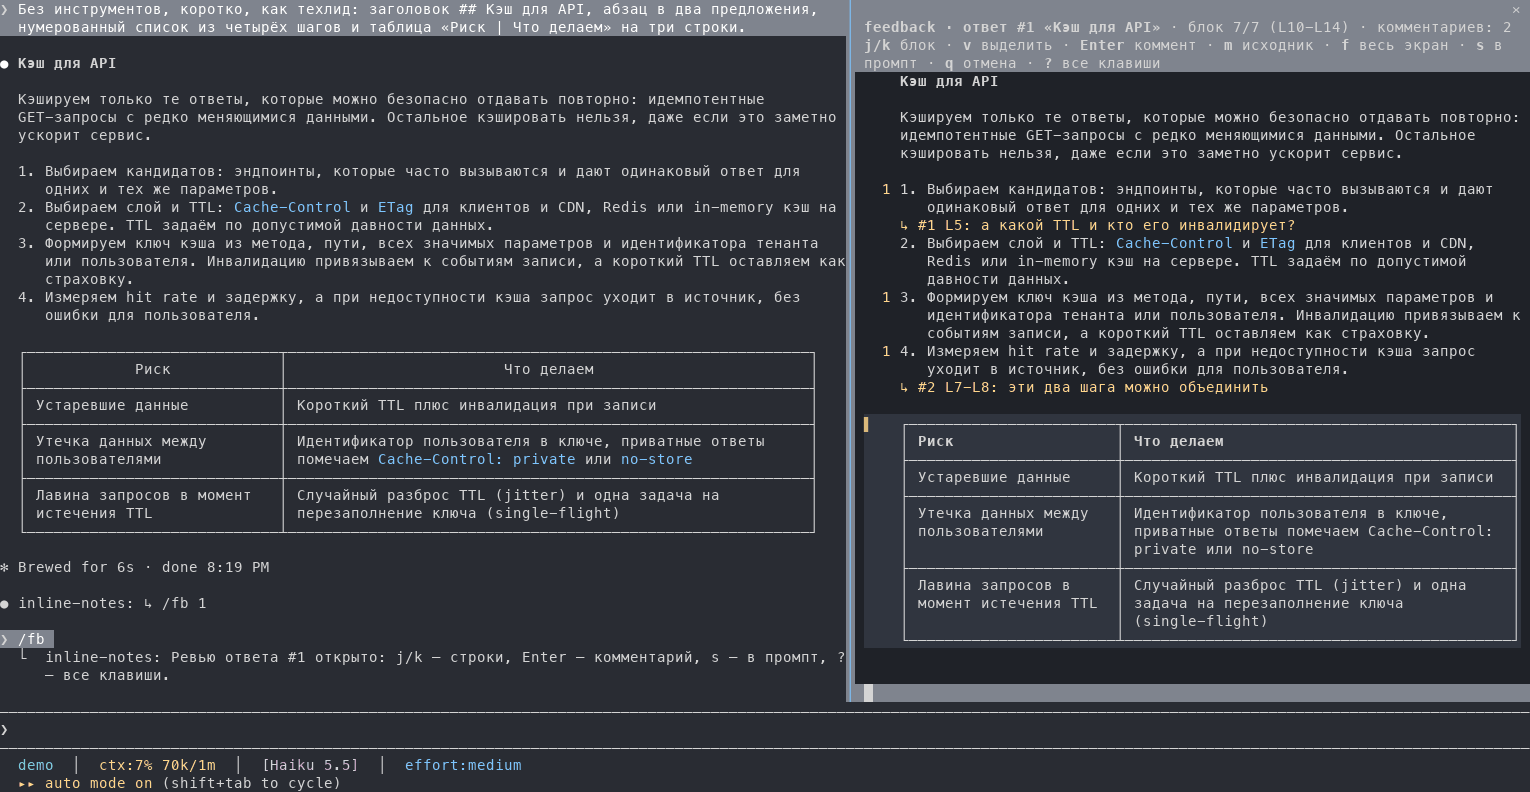
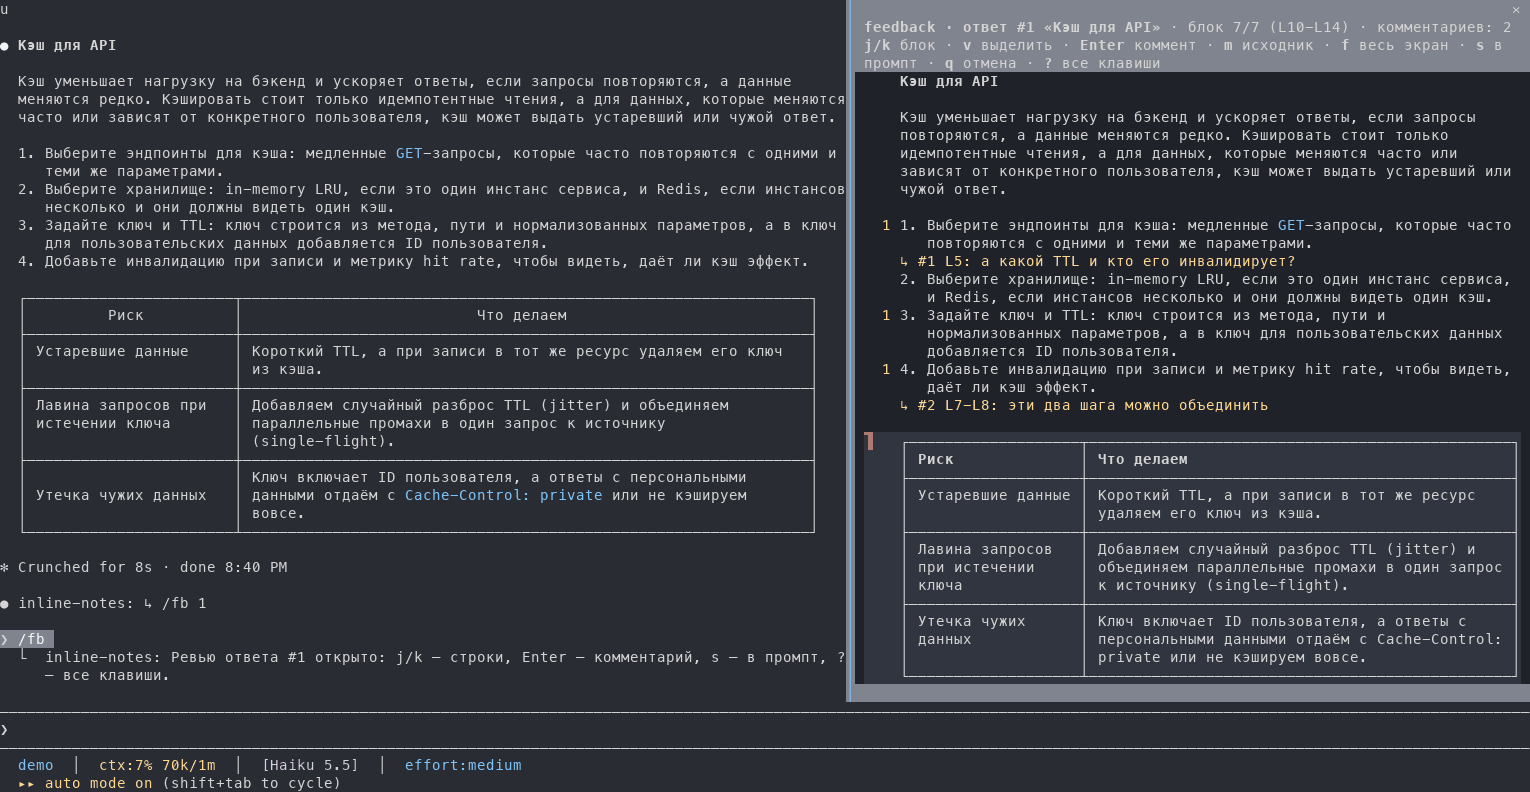
0.5.1: the terminal caret stands on the cursor marker, not in the pane's corner
The hidden key field is drawn where the caret belongs: on the active line's
marker, or at the insertion point of the comment being typed. The window's
top now lives in the review, so the hooks fit the same window the reviewer
draws. The README demo is re-recorded.

diff --git a/hooks/layout.ts b/hooks/layout.ts
@@ -40,6 +40,16 @@ export const hintsOf = (r: FbReview) => (r.draft ? DRAFT_HINTS : r.preview ? PRE
 /** The hint row as plain text: what rowsOf counts. */
 export const hintOf = (r: FbReview) => hintsOf(r).map(([key, what]) => `${key} ${what}`).join(HINT_GAP)
 
+/** Columns inside the reviewer's padding: header and body are padded a cell on each side. */
+export const innerOf = (columns: number) => Math.max(10, columns - 2)
+
+/** Rows the header takes above the body: title, hint, status. */
+export function headerRows(r: FbReview, lines: string[], inner: number) {
+  const { head, tail } = titleOf(r, lines)
+
+  return rowsOf(head + tail, inner) + rowsOf(hintOf(r), inner) + (r.status ? rowsOf(r.status, inner) : 0)
+}
+
 // Greedy word wrap, as the terminal breaks a Text: a word that would cross the edge
 // starts the next row, one longer than a row is cut across rows. Over, never under:
 // a spare row at the bottom beats a cursor clipped off it.
@@ -231,4 +241,90 @@ export function fitTop(heights: number[], cursor: number, top: number, viewport:
   }
 
   return first
+}
+
+/** The window the reviewer draws for `r` in a region `columns` by `rows`: what it scrolls over, from where. */
+export function windowOf(r: FbReview, columns: number, rows: number) {
+  const inner = innerOf(columns)
+  const header = headerRows(r, linesOf(r.text), inner)
+  const viewport = Math.max(3, rows - header)
+  const units = unitsOf(r, inner)
+
+  return { inner, header, viewport, units, top: fitTop(units.heights, units.at, r.top ?? 0, viewport) }
+}
+
+/** Where the caret stands after `text`, word-wrapped to `width` as the terminal wraps a Text. */
+export function caretIn(text: string, width: number): { row: number; col: number } {
+  const w = Math.max(1, width)
+  let row = 0
+  let col = 0
+  text.split('\n').forEach((line, i) => {
+    if (i > 0) {
+      row++
+      col = 0
+    }
+    line.split(' ').forEach((word, j) => {
+      if (j > 0) {
+        if (col + 1 > w) {
+          row++
+          col = 0
+        } else col++
+      }
+      let len = [...word].length
+      if (col > 0 && col + len > w) {
+        row++
+        col = 0
+      }
+      while (len > w) {
+        row++
+        len -= w
+      }
+      col += len
+    })
+  })
+  // The caret's own cell past the edge starts the next row.
+  return col >= w ? { row: row + 1, col: 0 } : { row, col }
+}
+
+/**
+ * Where the terminal's caret goes in the reviewer's region: on the cursor's `▌`, or at the
+ * insertion point of the comment being typed. It counts rows as the reviewer draws them;
+ * in the rendered view the blocks' heights are guessed, as blockHeights says.
+ */
+export function caretOf(r: FbReview, columns: number, rows: number): { x: number; y: number } {
+  const at = (x: number, y: number) => ({ x: Math.max(0, Math.min(columns - 1, x)), y: Math.max(0, Math.min(rows - 1, y)) })
+  if (r.help) return at(1, 0)
+  const { inner, header, units, top } = windowOf(r, columns, rows)
+  const lines = linesOf(r.text)
+  const draft = r.draft
+  const typed = (left: number, boxWidth: number, y: number) => {
+    const caret = caretIn([...r.draftText].slice(0, r.draftCaret).join(''), boxWidth - 4)
+    // A border row and the title above the text; the border and a cell of padding beside it.
+    return at(1 + left + 2 + caret.col, y + 2 + caret.row)
+  }
+  const commentRows = (match: (end: number) => boolean, width: number) =>
+    r.comments
+      .filter(c => c.id !== draft?.id && match(c.end))
+      .reduce((sum, c) => sum + rowsOf(`↳ #${c.id} ${lineRef(c)}: ${c.body}`, width), 0)
+
+  if (!r.preview) {
+    const { width, content, heights } = measure(r, inner)
+    const above = (end: number) => heights.slice(top, Math.max(top, end)).reduce((a, b) => a + b, 0)
+    if (!draft) return at(1, header + above(r.cursor))
+    const y = header + above(draft.end) + rowsOf(lines[draft.end] || ' ', content) + commentRows(end => end === draft.end, content)
+    return typed(width + GUTTER, content, y)
+  }
+
+  const blocks = blocksOf(r.text)
+  const wide = Math.max(10, inner - BLOCK_GUTTER)
+  const blank = (i: number) => (i > 0 && blocks[i]!.start > blocks[i - 1]!.end + 1 ? 1 : 0)
+  // The block's first row: the window's top block draws without the blank line its height counts.
+  const startOf = (k: number) =>
+    k <= top ? 0 : units.heights.slice(top, k).reduce((a, b) => a + b, 0) - blank(top) + blank(k)
+  if (!draft) return at(1, header + startOf(units.at))
+  const k = blockIndex(blocks, draft.end)
+  const source = lines.slice(blocks[k]!.start, blocks[k]!.end + 1)
+  const drawn = isTable(source) ? tableRows(source, wide).length : rowsOf(source.join('\n'), wide)
+  const y = header + startOf(k) + drawn + commentRows(end => blockIndex(blocks, end) === k, wide)
+  return typed(BLOCK_GUTTER, wide, y)
 }

diff --git a/hooks/register.tsx b/hooks/register.tsx
@@ -4,11 +4,12 @@
 // takes the keyboard only from a click, so a one-line field under it, drawn zero rows tall,
 // takes the keys whenever the pane does (/fb, a click) and feeds them to the same handleKey.
 import { atom, read, update } from 'claude-code'
-import type { EngineInterface, Register } from 'claude-code'
+import type { EngineInterface, Register, RenderElement } from 'claude-code'
 
 import type { FbReview } from '../types'
 import { GENERATIONS, fieldKeys, fieldStart, markOf } from './field'
 import type { Field } from './field'
+import { caretOf, windowOf } from './layout'
 import { buildPrompt, commentCount, handleKey, scrollBy, startReview, walkBlocks } from './review'
 
 const PANE = 'fb'
@@ -42,6 +43,9 @@ let handling: Promise<void> = Promise.resolve()
 // The terminal's size as last seen, which f asks the pane to take.
 // ponytail: module state; after a reload f waits for the next draw or /fb to know it
 let screen = { columns: 0, rows: 0 }
+// The reviewer's region as last drawn: what its window is fitted in.
+// ponytail: module state; after a reload the first change waits for a draw to refit
+let region = { columns: 0, rows: 0 }
 
 type Message = { type: 'sync'; review: FbReview } | { type: 'finish'; outcome: 'submit' | 'cancel'; review: FbReview }
 
@@ -58,8 +62,13 @@ async function replies($: EngineInterface): Promise<string[]> {
   return messages.filter(m => m.role === 'assistant' && m.text.trim() !== '').map(m => m.text)
 }
 
-// A change the hooks make themselves reaches the reviewer by outranking its rev.
-const bump = (r: FbReview, patch: Partial<FbReview>): FbReview => ({ ...r, ...patch, rev: (r.rev ?? 0) + 1 })
+// A change the hooks make themselves reaches the reviewer by outranking its rev, its
+// window refitted as the reviewer refits its own changes.
+function bump(r: FbReview, patch: Partial<FbReview>): FbReview {
+  const next = { ...r, ...patch, rev: (r.rev ?? 0) + 1 }
+
+  return region.columns > 0 ? { ...next, top: windowOf(next, region.columns, region.rows).top } : next
+}
 
 // Wide, the pane asks for the whole screen (columns docked, rows inline); an open
 // without them goes back to the engine's share. A size the person dragged wins either way.
@@ -256,22 +265,23 @@ export const register: Register = on => {
       />
     )
 
-    // The field takes no row: the reviewer has the whole body. A height-only resize
+    // The field takes no room and draws nothing, but the terminal's caret stands where it is:
+    // so it sits on the cursor's marker, or at the insertion point of the comment being typed.
+    // The arrow Buttons around it, in document order, sit out of sight. A height-only resize
     // catches up on the next keypress, which re-renders this pane with the new bodyRows.
+    region = { columns: e.props.bodyColumns, rows: Math.max(8, e.props.scroll.bodyRows) }
+    const caret = caretOf(r, region.columns, region.rows)
+    const hidden = (at: { x: number; y: number }, child: RenderElement) => (
+      <Box position="absolute" top={at.y} left={at.x} width={1} height={0} overflow="hidden">
+        {child}
+      </Box>
+    )
     return (
       <Box flexDirection="column">
-        <Client
-          key="review"
-          module="./reviewer.tsx"
-          props={{ review: r, ...(await paletteOf($)) }}
-          width="100%"
-          height={Math.max(8, e.props.scroll.bodyRows)}
-        />
-        <Box height={0} overflow="hidden" flexDirection="row">
-          <Button key={ARROW_UP} plain label="↑" onPress={() => pressKeys($, ['up'])} />
-          {field}
-          <Button key={ARROW_DOWN} plain label="↓" onPress={() => pressKeys($, ['down'])} />
-        </Box>
+        <Client key="review" module="./reviewer.tsx" props={{ review: r, ...(await paletteOf($)) }} width="100%" height={region.rows} />
+        {hidden({ x: 0, y: -1 }, <Button key={ARROW_UP} plain label="↑" onPress={() => pressKeys($, ['up'])} />)}
+        {hidden(caret, field)}
+        {hidden({ x: 0, y: -1 }, <Button key={ARROW_DOWN} plain label="↓" onPress={() => pressKeys($, ['down'])} />)}
       </Box>
     )
   })

diff --git a/hooks/reviewer.tsx b/hooks/reviewer.tsx
@@ -7,12 +7,12 @@
 import type { ClientSurface, RenderElement } from 'claude-code'
 
 import type { FbReview } from '../types'
-import { BLOCK_GUTTER, GUTTER, HINT_GAP, draftRows, fitTop, hintOf, hintsOf, isTable, measure, rowsOf, tableRows, titleOf, unitsOf } from './layout'
+import { BLOCK_GUTTER, GUTTER, HINT_GAP, draftRows, headerRows, hintsOf, isTable, measure, rowsOf, tableRows, titleOf, windowOf } from './layout'
 import { blockIndex, blocksOf, commentsAt, currentRange, handleKey, isSelected, lineRef, setCursor, startAdd, startEdit } from './review'
 
 /** `background` paints the body, `highlight` the cursor's line; the header stays on the pane's own frame color. */
 type Props = { review: FbReview; background: string; highlight: string }
-type State = { review: FbReview; top: number }
+type State = { review: FbReview }
 
 // Theme keys, so the accents follow the person's theme as Claude Code's own do.
 const ACCENT = 'claude'
@@ -46,16 +46,6 @@ const normalize = (r: FbReview): FbReview => ({
   draftCaret: r.draftCaret ?? [...(r.draftText ?? '')].length,
 })
 
-// Header and body are padded a cell on each side.
-const innerOf = (columns: number) => Math.max(10, columns - 2)
-
-// Rows the header takes above the body: title, hint, status.
-function headerRows(r: FbReview, lines: string[], inner: number) {
-  const { head, tail } = titleOf(r, lines)
-
-  return rowsOf(head + tail, inner) + rowsOf(hintOf(r), inner) + (r.status ? rowsOf(r.status, inner) : 0)
-}
-
 type Hit = { line: number; edit?: number }
 
 export default function Reviewer(props: Props, surface: ClientSurface<State>): RenderElement {
@@ -65,28 +55,24 @@ export default function Reviewer(props: Props, surface: ClientSurface<State>): R
   const sameReview = held !== undefined && held.review.opened === incoming.opened
   // Adopt the props for a new review, and for one the hooks advanced past ours.
   const adopt = !sameReview || incoming.rev! > held.review.rev!
-  const state: State = adopt ? { review: incoming, top: sameReview ? held.top : 0 } : held
+  const state: State = adopt ? { review: incoming } : held
   if (adopt) surface.setState(state)
 
   const r = state.review
   const columns = surface.columns || 80
   const rows = surface.rows || 24
-  const inner = innerOf(columns)
+  // `top` counts what the window scrolls over: lines, or blocks when rendered. The hooks
+  // fit the same window from the same review, to put the terminal's caret on it.
+  const { inner, viewport, units, top } = windowOf(r, columns, rows)
   const { lines, width, content, heights } = measure(r, inner)
-  const viewport = Math.max(3, rows - headerRows(r, lines, inner))
-  // `top` counts what the window scrolls over: lines, or blocks when rendered.
-  const units = unitsOf(r, inner)
-  const top = r.help ? state.top : fitTop(units.heights, units.at, state.top, viewport)
 
   // Every change made here: a higher rev, a refit of the window, a copy to the hooks.
   const apply = (next: FbReview | 'submit' | 'cancel', from: State) => {
     if (typeof next === 'string') return surface.post({ type: 'finish', outcome: next, review: from.review })
     if (next === from.review) return
-    const review = { ...next, rev: (from.review.rev ?? 0) + 1 }
-    const cols = innerOf(surface.columns || columns)
-    const view = Math.max(3, (surface.rows || rows) - headerRows(review, lines, cols))
-    const fit = unitsOf(review, cols)
-    surface.setState({ ...from, review, top: fitTop(fit.heights, fit.at, from.top, view) })
+    const moved = { ...next, rev: (from.review.rev ?? 0) + 1 }
+    const review = { ...moved, top: windowOf(moved, surface.columns || columns, surface.rows || rows).top }
+    surface.setState({ ...from, review })
     surface.post({ type: 'sync', review })
   }
   const current = () => surface.state ?? state

diff --git a/tests/fb.test.ts b/tests/fb.test.ts
@@ -2,7 +2,7 @@ import { expect, test } from 'claude-code/testing'
 import type { Engine } from 'claude-code/testing'
 
 import { fieldKeys, fieldStart, markOf } from '../hooks/field'
-import { fitTop, measure, rowsOf, tableRows } from '../hooks/layout'
+import { caretIn, caretOf, fitTop, measure, rowsOf, tableRows } from '../hooks/layout'
 import {
   arm,
   blocksOf,
@@ -417,4 +417,17 @@ test('a rendered table fits the pane: columns share the width and wrap their wor
   expect(narrow.map(r => r.text).join('\n')).toContain('Объём')
   expect(narrow.length).toBeGreaterThan(7) // the comment wraps
   expect(narrow.at(-1)?.text.startsWith('└')).toBe(true)
+})
+
+test('the terminal caret stands on the cursor marker, and after the text of the comment being typed', () => {
+  const r = startReview(1, REPLY, false)
+  const first = caretOf(r, 160, 30) // wide enough that both hint rows take one row
+  expect(first.x).toBe(1) // the `▌` cell, inside the padding
+  expect(caretOf(setCursor(r, 1), 160, 30)).toEqual({ x: 1, y: first.y + 1 })
+  let typing = step(setCursor(r, 1), 'return')
+  for (const key of ['о', 'к']) typing = step(typing, key)
+  // Under line 2: the box's border and title, then the text; padding, gutter, border and padding to its left.
+  expect(caretOf(typing, 160, 30)).toEqual({ x: 1 + 1 + 7 + 2 + 2, y: first.y + 2 + 2 })
+  expect(caretIn('ab cd', 4)).toEqual({ row: 1, col: 2 }) // `cd` wraps to the next row
+  expect(caretIn('abcd', 4)).toEqual({ row: 1, col: 0 }) // the caret's own cell past the edge
 })

diff --git a/types/index.d.ts b/types/index.d.ts
@@ -29,6 +29,8 @@ export type FbReview = {
   rev?: number
   /** The key table is shown instead of the reply. */
   help?: boolean
+  /** The first line or block the window was last fitted from: the reviewer and the hooks fit it alike. */
+  top?: number
 }
 
 declare module 'claude-code' {

diff --git a/README.ru.md b/README.ru.md
@@ -87,7 +87,7 @@ claude plugin install inline-notes --marketplace DaniilMats/inline-notes
 
 ## Как это устроено
 
-`inline-notes` — плагин Claude Code на function hooks. `/fb` читает ответы сессии, открывает панель и рисует в ней ревьюер как `Client`-модуль. Этот модуль читает клавиши напрямую, поэтому русская раскладка ведёт к тем же командам. Клавиатуру держит поле ввода нулевой высоты, так что кликать не нужно. По `s` комментарии превращаются в один промпт с цитатами пронумерованных строк.
+`inline-notes` — плагин Claude Code на function hooks. `/fb` читает ответы сессии, открывает панель и рисует в ней ревьюер как `Client`-модуль. Этот модуль читает клавиши напрямую, поэтому русская раскладка ведёт к тем же командам. Клавиатуру держит поле ввода нулевой высоты, так что кликать не нужно. Оно стоит на маркере `▌` активной строки или в точке набора комментария, поэтому курсор терминала не убегает в угол. По `s` комментарии превращаются в один промпт с цитатами пронумерованных строк.
 
 Состояние ревью хранится в состоянии плагина в сессии, поэтому если закрыть панель через `Esc`, ничего не пропадёт.
 

diff --git a/README.md b/README.md
@@ -90,7 +90,7 @@ While you type a comment, `Enter` saves it and `Enter` on an empty comment cance
 
 ## How it works
 
-`inline-notes` is a Claude Code plugin built on function hooks. `/fb` reads the session's replies, opens a pane, and draws the reviewer in it as a `Client` surface module. That module reads keys raw, which is how the Russian layout maps onto the same commands. A zero-height input field holds the keyboard, so no click is needed. When you press `s`, the comments become one prompt that quotes the numbered lines each comment is about.
+`inline-notes` is a Claude Code plugin built on function hooks. `/fb` reads the session's replies, opens a pane, and draws the reviewer in it as a `Client` surface module. That module reads keys raw, which is how the Russian layout maps onto the same commands. A zero-height input field holds the keyboard, so no click is needed. It sits on the cursor's `▌` marker, or at the insertion point of a comment being typed, so the terminal's caret never wanders off to a corner. When you press `s`, the comments become one prompt that quotes the numbered lines each comment is about.
 
 The review state lives in the session's plugin state, so closing the pane with `Esc` loses nothing.
 

diff --git a/CHANGELOG.md b/CHANGELOG.md
@@ -1,5 +1,9 @@
 # Changelog
 
+## 0.5.1 — 2026-10-20
+
+- The terminal's caret no longer sits in the pane's corner and no longer jumps there while you type: it stands on the cursor's `▌` marker, and inside the comment box at the insertion point.
+
 ## 0.5.0 — 2026-10-20
 
 - The pane fits Claude Code: the header sits on the pane's own frame color as a title bar, the body fills the rest, and the cursor's line is a highlighted band with an accent marker. Colors follow the Claude Code theme (dark or light).
